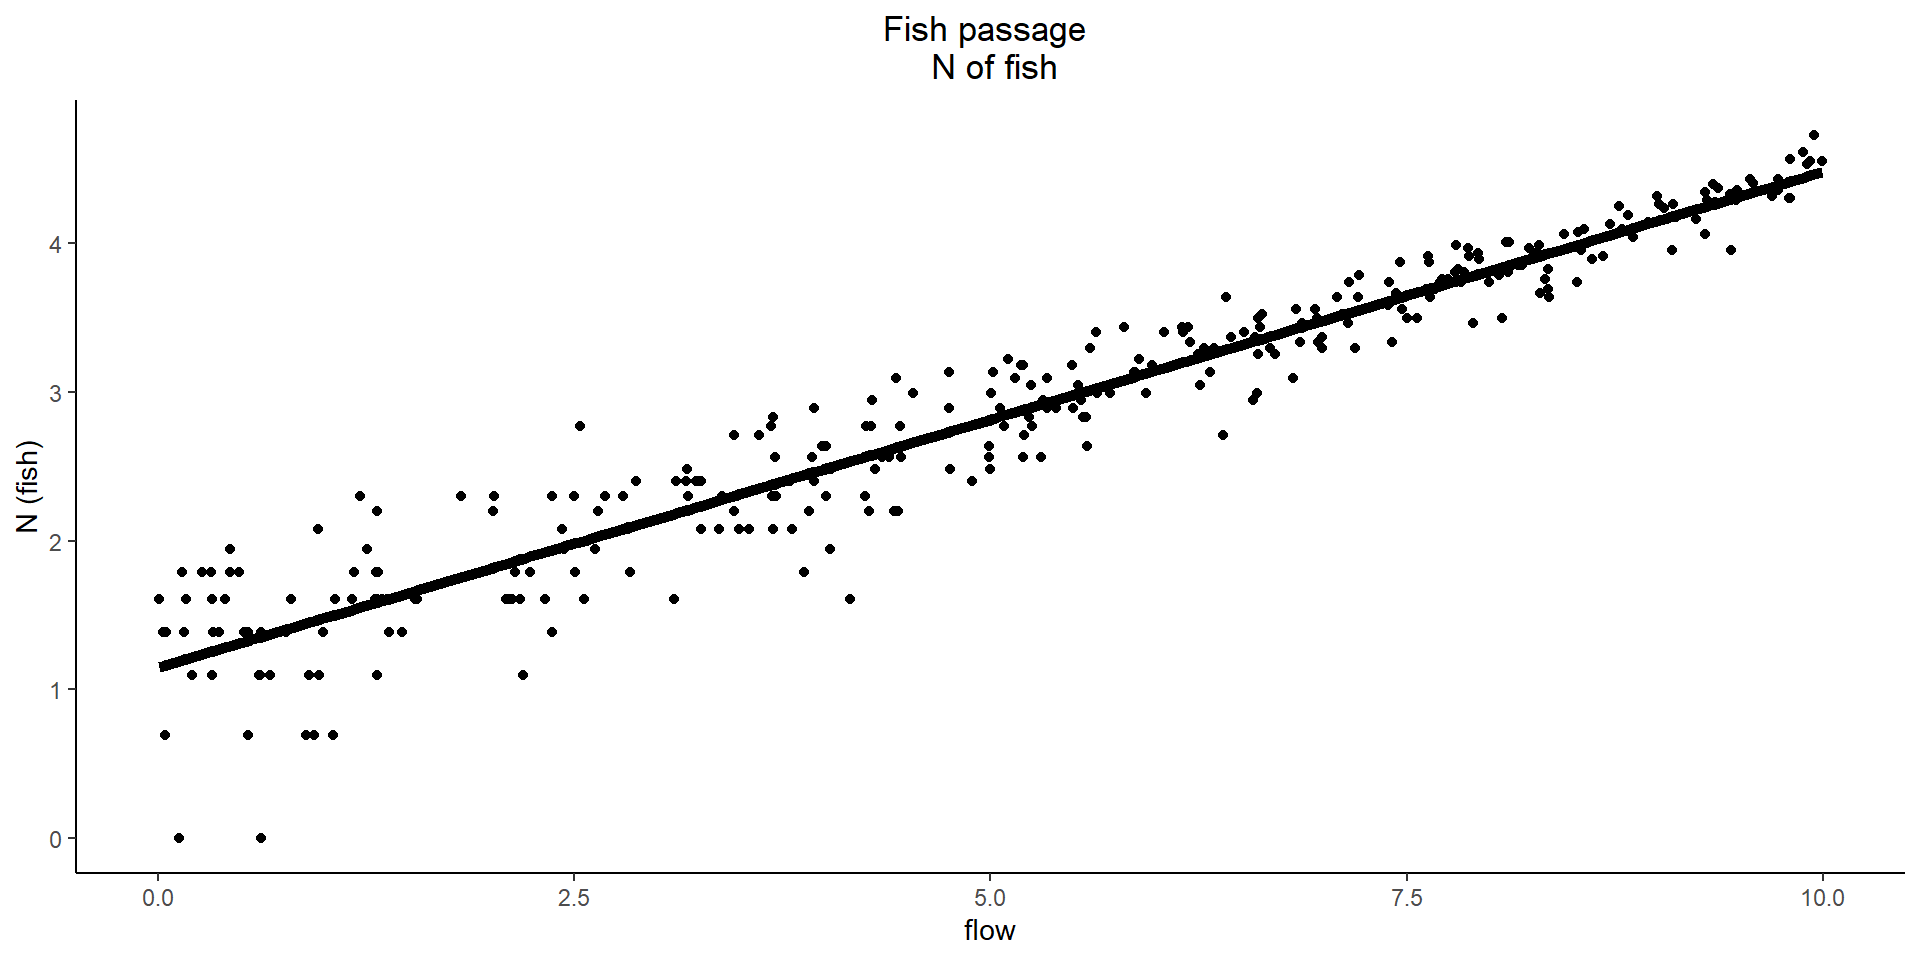
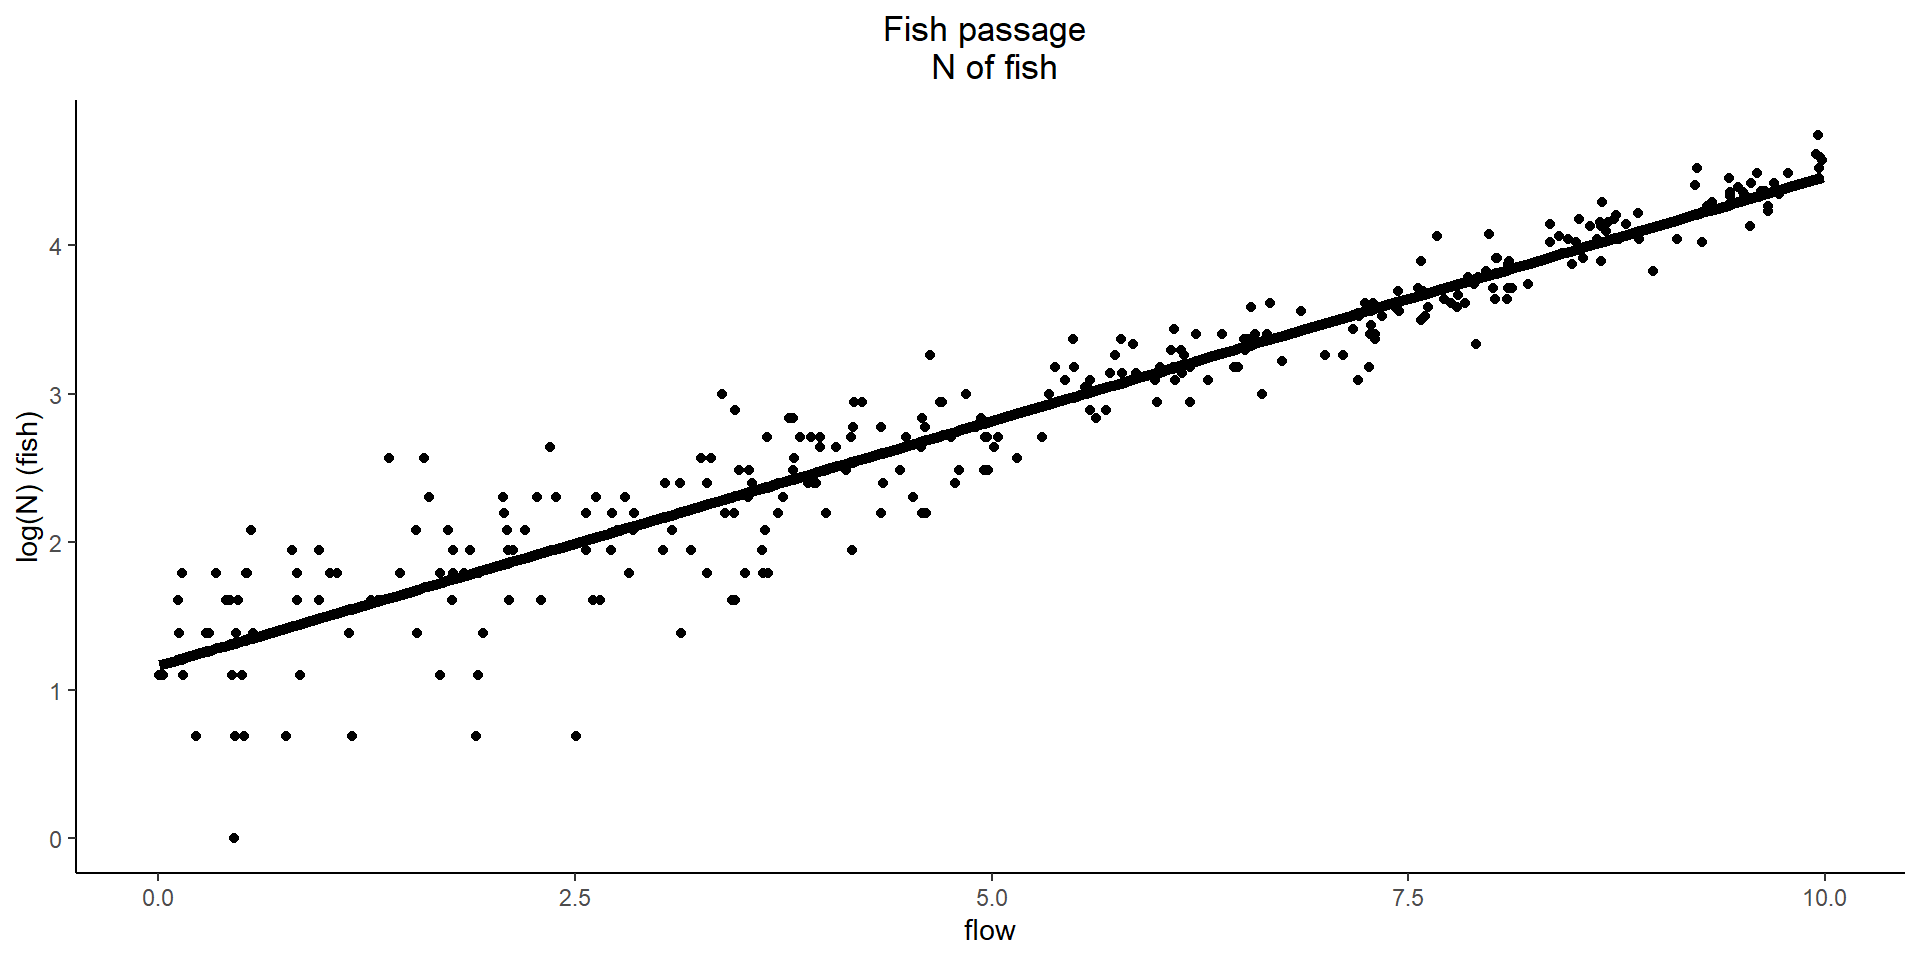
log added

diff --git a/docs/slides/GLM_Poisson.html b/docs/slides/GLM_Poisson.html
@@ -354,16 +354,16 @@ glm(formula = y ~ x, family = poisson, data = dat)
 
 Coefficients:
             Estimate Std. Error z value Pr(&gt;|z|)    
-(Intercept) 1.197615   0.039111   30.62   &lt;2e-16 ***
-x           0.329563   0.005074   64.96   &lt;2e-16 ***
+(Intercept) 1.185886   0.038360   30.91   &lt;2e-16 ***
+x           0.331293   0.004945   66.99   &lt;2e-16 ***
 ---
 Signif. codes:  0 '***' 0.001 '**' 0.01 '*' 0.05 '.' 0.1 ' ' 1
 
 (Dispersion parameter for poisson family taken to be 1)
 
-    Null deviance: 5707.3  on 299  degrees of freedom
-Residual deviance:  277.6  on 298  degrees of freedom
-AIC: 1698.3
+    Null deviance: 5987.92  on 299  degrees of freedom
+Residual deviance:  304.11  on 298  degrees of freedom
+AIC: 1720.2
 
 Number of Fisher Scoring iterations: 4</code></pre>
 </div>
@@ -406,16 +406,16 @@ glm(formula = y ~ x, family = poisson, data = dat)
 
 Coefficients:
             Estimate Std. Error z value Pr(&gt;|z|)    
-(Intercept) 1.197615   0.039111   30.62   &lt;2e-16 ***
-x           0.329563   0.005074   64.96   &lt;2e-16 ***
+(Intercept) 1.185886   0.038360   30.91   &lt;2e-16 ***
+x           0.331293   0.004945   66.99   &lt;2e-16 ***
 ---
 Signif. codes:  0 '***' 0.001 '**' 0.01 '*' 0.05 '.' 0.1 ' ' 1
 
 (Dispersion parameter for poisson family taken to be 1)
 
-    Null deviance: 5707.3  on 299  degrees of freedom
-Residual deviance:  277.6  on 298  degrees of freedom
-AIC: 1698.3
+    Null deviance: 5987.92  on 299  degrees of freedom
+Residual deviance:  304.11  on 298  degrees of freedom
+AIC: 1720.2
 
 Number of Fisher Scoring iterations: 4</code></pre>
 </div>
@@ -453,7 +453,7 @@ Y_i \sim Poisson(\lambda_i)
 <span id="cb10-3"><a href=""></a>  <span class="fu">geom_line</span>(<span class="fu">aes</span>(<span class="at">y=</span>fit),<span class="at">lwd=</span><span class="dv">1</span>)<span class="sc">+</span></span>
 <span id="cb10-4"><a href=""></a>    <span class="fu">geom_ribbon</span>(<span class="at">alpha=</span><span class="fl">0.2</span>)<span class="sc">+</span></span>
 <span id="cb10-5"><a href=""></a>  <span class="fu">xlab</span>(<span class="st">"flow"</span>)<span class="sc">+</span></span>
-<span id="cb10-6"><a href=""></a>  <span class="fu">ylab</span>(<span class="st">"log (N fish)"</span>)<span class="sc">+</span></span>
+<span id="cb10-6"><a href=""></a>  <span class="fu">ylab</span>(<span class="st">"(N fish)"</span>)<span class="sc">+</span></span>
 <span id="cb10-7"><a href=""></a>  <span class="fu">ggtitle</span>(<span class="st">"Fish passage </span><span class="sc">\n</span><span class="st"> N of fish"</span>)<span class="sc">+</span></span>
 <span id="cb10-8"><a href=""></a>  <span class="fu">theme_classic</span>()<span class="sc">+</span></span>
 <span id="cb10-9"><a href=""></a>  <span class="fu">theme</span>(<span class="at">plot.title =</span> <span class="fu">element_text</span>(<span class="at">hjust=</span><span class="fl">0.5</span>))</span></code><button title="Copy to Clipboard" class="code-copy-button"><i class="bi"></i></button></pre></div>
@@ -486,16 +486,16 @@ glm(formula = y ~ x, family = poisson(link = "log"), data = dat)
 
 Coefficients:
             Estimate Std. Error z value Pr(&gt;|z|)    
-(Intercept) 1.197615   0.039111   30.62   &lt;2e-16 ***
-x           0.329563   0.005074   64.96   &lt;2e-16 ***
+(Intercept) 1.185886   0.038360   30.91   &lt;2e-16 ***
+x           0.331293   0.004945   66.99   &lt;2e-16 ***
 ---
 Signif. codes:  0 '***' 0.001 '**' 0.01 '*' 0.05 '.' 0.1 ' ' 1
 
 (Dispersion parameter for poisson family taken to be 1)
 
-    Null deviance: 5707.3  on 299  degrees of freedom
-Residual deviance:  277.6  on 298  degrees of freedom
-AIC: 1698.3
+    Null deviance: 5987.92  on 299  degrees of freedom
+Residual deviance:  304.11  on 298  degrees of freedom
+AIC: 1720.2
 
 Number of Fisher Scoring iterations: 4</code></pre>
 </div>
@@ -608,19 +608,19 @@ Number of Fisher Scoring iterations: 4</code></pre>
 <div class="cell">
 <div class="sourceCode cell-code" id="cb16"><pre class="sourceCode numberSource r number-lines code-with-copy"><code class="sourceCode r"><span id="cb16-1"><a href=""></a><span class="fu">rbinom</span>(<span class="at">n =</span> <span class="dv">10</span>, <span class="at">size =</span> <span class="dv">1</span>, <span class="at">p =</span> <span class="fl">0.1</span>)</span></code><button title="Copy to Clipboard" class="code-copy-button"><i class="bi"></i></button></pre></div>
 <div class="cell-output cell-output-stdout">
-<pre><code> [1] 1 0 0 0 0 0 0 0 0 0</code></pre>
+<pre><code> [1] 0 0 0 1 0 0 1 0 1 0</code></pre>
 </div>
 </div>
 <div class="cell">
 <div class="sourceCode cell-code" id="cb18"><pre class="sourceCode numberSource r number-lines code-with-copy"><code class="sourceCode r"><span id="cb18-1"><a href=""></a><span class="fu">rbinom</span>(<span class="at">n =</span> <span class="dv">10</span>, <span class="at">size =</span> <span class="dv">1</span>, <span class="at">p =</span> <span class="fl">0.5</span>)</span></code><button title="Copy to Clipboard" class="code-copy-button"><i class="bi"></i></button></pre></div>
 <div class="cell-output cell-output-stdout">
-<pre><code> [1] 1 1 1 0 0 1 0 0 1 0</code></pre>
+<pre><code> [1] 1 0 1 0 0 0 0 1 1 0</code></pre>
 </div>
 </div>
 <div class="cell">
 <div class="sourceCode cell-code" id="cb20"><pre class="sourceCode numberSource r number-lines code-with-copy"><code class="sourceCode r"><span id="cb20-1"><a href=""></a><span class="fu">rbinom</span>(<span class="at">n =</span> <span class="dv">10</span>, <span class="at">size =</span> <span class="dv">1</span>, <span class="at">p =</span> <span class="fl">0.9</span>)</span></code><button title="Copy to Clipboard" class="code-copy-button"><i class="bi"></i></button></pre></div>
 <div class="cell-output cell-output-stdout">
-<pre><code> [1] 1 0 1 1 1 1 1 1 0 1</code></pre>
+<pre><code> [1] 1 1 1 1 1 1 0 0 1 1</code></pre>
 </div>
 </div>
 </section>
@@ -641,16 +641,16 @@ glm(formula = y ~ x, family = poisson(link = "log"), data = dat)
 
 Coefficients:
             Estimate Std. Error z value Pr(&gt;|z|)    
-(Intercept) 1.197615   0.039111   30.62   &lt;2e-16 ***
-x           0.329563   0.005074   64.96   &lt;2e-16 ***
+(Intercept) 1.185886   0.038360   30.91   &lt;2e-16 ***
+x           0.331293   0.004945   66.99   &lt;2e-16 ***
 ---
 Signif. codes:  0 '***' 0.001 '**' 0.01 '*' 0.05 '.' 0.1 ' ' 1
 
 (Dispersion parameter for poisson family taken to be 1)
 
-    Null deviance: 5707.3  on 299  degrees of freedom
-Residual deviance:  277.6  on 298  degrees of freedom
-AIC: 1698.3
+    Null deviance: 5987.92  on 299  degrees of freedom
+Residual deviance:  304.11  on 298  degrees of freedom
+AIC: 1720.2
 
 Number of Fisher Scoring iterations: 4</code></pre>
 </div>

diff --git a/slides/GLM_Poisson.html b/slides/GLM_Poisson.html
@@ -354,16 +354,16 @@ glm(formula = y ~ x, family = poisson, data = dat)
 
 Coefficients:
             Estimate Std. Error z value Pr(&gt;|z|)    
-(Intercept) 1.197615   0.039111   30.62   &lt;2e-16 ***
-x           0.329563   0.005074   64.96   &lt;2e-16 ***
+(Intercept) 1.185886   0.038360   30.91   &lt;2e-16 ***
+x           0.331293   0.004945   66.99   &lt;2e-16 ***
 ---
 Signif. codes:  0 '***' 0.001 '**' 0.01 '*' 0.05 '.' 0.1 ' ' 1
 
 (Dispersion parameter for poisson family taken to be 1)
 
-    Null deviance: 5707.3  on 299  degrees of freedom
-Residual deviance:  277.6  on 298  degrees of freedom
-AIC: 1698.3
+    Null deviance: 5987.92  on 299  degrees of freedom
+Residual deviance:  304.11  on 298  degrees of freedom
+AIC: 1720.2
 
 Number of Fisher Scoring iterations: 4</code></pre>
 </div>
@@ -406,16 +406,16 @@ glm(formula = y ~ x, family = poisson, data = dat)
 
 Coefficients:
             Estimate Std. Error z value Pr(&gt;|z|)    
-(Intercept) 1.197615   0.039111   30.62   &lt;2e-16 ***
-x           0.329563   0.005074   64.96   &lt;2e-16 ***
+(Intercept) 1.185886   0.038360   30.91   &lt;2e-16 ***
+x           0.331293   0.004945   66.99   &lt;2e-16 ***
 ---
 Signif. codes:  0 '***' 0.001 '**' 0.01 '*' 0.05 '.' 0.1 ' ' 1
 
 (Dispersion parameter for poisson family taken to be 1)
 
-    Null deviance: 5707.3  on 299  degrees of freedom
-Residual deviance:  277.6  on 298  degrees of freedom
-AIC: 1698.3
+    Null deviance: 5987.92  on 299  degrees of freedom
+Residual deviance:  304.11  on 298  degrees of freedom
+AIC: 1720.2
 
 Number of Fisher Scoring iterations: 4</code></pre>
 </div>
@@ -453,7 +453,7 @@ Y_i \sim Poisson(\lambda_i)
 <span id="cb10-3"><a href=""></a>  <span class="fu">geom_line</span>(<span class="fu">aes</span>(<span class="at">y=</span>fit),<span class="at">lwd=</span><span class="dv">1</span>)<span class="sc">+</span></span>
 <span id="cb10-4"><a href=""></a>    <span class="fu">geom_ribbon</span>(<span class="at">alpha=</span><span class="fl">0.2</span>)<span class="sc">+</span></span>
 <span id="cb10-5"><a href=""></a>  <span class="fu">xlab</span>(<span class="st">"flow"</span>)<span class="sc">+</span></span>
-<span id="cb10-6"><a href=""></a>  <span class="fu">ylab</span>(<span class="st">"log (N fish)"</span>)<span class="sc">+</span></span>
+<span id="cb10-6"><a href=""></a>  <span class="fu">ylab</span>(<span class="st">"(N fish)"</span>)<span class="sc">+</span></span>
 <span id="cb10-7"><a href=""></a>  <span class="fu">ggtitle</span>(<span class="st">"Fish passage </span><span class="sc">\n</span><span class="st"> N of fish"</span>)<span class="sc">+</span></span>
 <span id="cb10-8"><a href=""></a>  <span class="fu">theme_classic</span>()<span class="sc">+</span></span>
 <span id="cb10-9"><a href=""></a>  <span class="fu">theme</span>(<span class="at">plot.title =</span> <span class="fu">element_text</span>(<span class="at">hjust=</span><span class="fl">0.5</span>))</span></code><button title="Copy to Clipboard" class="code-copy-button"><i class="bi"></i></button></pre></div>
@@ -486,16 +486,16 @@ glm(formula = y ~ x, family = poisson(link = "log"), data = dat)
 
 Coefficients:
             Estimate Std. Error z value Pr(&gt;|z|)    
-(Intercept) 1.197615   0.039111   30.62   &lt;2e-16 ***
-x           0.329563   0.005074   64.96   &lt;2e-16 ***
+(Intercept) 1.185886   0.038360   30.91   &lt;2e-16 ***
+x           0.331293   0.004945   66.99   &lt;2e-16 ***
 ---
 Signif. codes:  0 '***' 0.001 '**' 0.01 '*' 0.05 '.' 0.1 ' ' 1
 
 (Dispersion parameter for poisson family taken to be 1)
 
-    Null deviance: 5707.3  on 299  degrees of freedom
-Residual deviance:  277.6  on 298  degrees of freedom
-AIC: 1698.3
+    Null deviance: 5987.92  on 299  degrees of freedom
+Residual deviance:  304.11  on 298  degrees of freedom
+AIC: 1720.2
 
 Number of Fisher Scoring iterations: 4</code></pre>
 </div>
@@ -608,19 +608,19 @@ Number of Fisher Scoring iterations: 4</code></pre>
 <div class="cell">
 <div class="sourceCode cell-code" id="cb16"><pre class="sourceCode numberSource r number-lines code-with-copy"><code class="sourceCode r"><span id="cb16-1"><a href=""></a><span class="fu">rbinom</span>(<span class="at">n =</span> <span class="dv">10</span>, <span class="at">size =</span> <span class="dv">1</span>, <span class="at">p =</span> <span class="fl">0.1</span>)</span></code><button title="Copy to Clipboard" class="code-copy-button"><i class="bi"></i></button></pre></div>
 <div class="cell-output cell-output-stdout">
-<pre><code> [1] 1 0 0 0 0 0 0 0 0 0</code></pre>
+<pre><code> [1] 0 0 0 1 0 0 1 0 1 0</code></pre>
 </div>
 </div>
 <div class="cell">
 <div class="sourceCode cell-code" id="cb18"><pre class="sourceCode numberSource r number-lines code-with-copy"><code class="sourceCode r"><span id="cb18-1"><a href=""></a><span class="fu">rbinom</span>(<span class="at">n =</span> <span class="dv">10</span>, <span class="at">size =</span> <span class="dv">1</span>, <span class="at">p =</span> <span class="fl">0.5</span>)</span></code><button title="Copy to Clipboard" class="code-copy-button"><i class="bi"></i></button></pre></div>
 <div class="cell-output cell-output-stdout">
-<pre><code> [1] 1 1 1 0 0 1 0 0 1 0</code></pre>
+<pre><code> [1] 1 0 1 0 0 0 0 1 1 0</code></pre>
 </div>
 </div>
 <div class="cell">
 <div class="sourceCode cell-code" id="cb20"><pre class="sourceCode numberSource r number-lines code-with-copy"><code class="sourceCode r"><span id="cb20-1"><a href=""></a><span class="fu">rbinom</span>(<span class="at">n =</span> <span class="dv">10</span>, <span class="at">size =</span> <span class="dv">1</span>, <span class="at">p =</span> <span class="fl">0.9</span>)</span></code><button title="Copy to Clipboard" class="code-copy-button"><i class="bi"></i></button></pre></div>
 <div class="cell-output cell-output-stdout">
-<pre><code> [1] 1 0 1 1 1 1 1 1 0 1</code></pre>
+<pre><code> [1] 1 1 1 1 1 1 0 0 1 1</code></pre>
 </div>
 </div>
 </section>
@@ -641,16 +641,16 @@ glm(formula = y ~ x, family = poisson(link = "log"), data = dat)
 
 Coefficients:
             Estimate Std. Error z value Pr(&gt;|z|)    
-(Intercept) 1.197615   0.039111   30.62   &lt;2e-16 ***
-x           0.329563   0.005074   64.96   &lt;2e-16 ***
+(Intercept) 1.185886   0.038360   30.91   &lt;2e-16 ***
+x           0.331293   0.004945   66.99   &lt;2e-16 ***
 ---
 Signif. codes:  0 '***' 0.001 '**' 0.01 '*' 0.05 '.' 0.1 ' ' 1
 
 (Dispersion parameter for poisson family taken to be 1)
 
-    Null deviance: 5707.3  on 299  degrees of freedom
-Residual deviance:  277.6  on 298  degrees of freedom
-AIC: 1698.3
+    Null deviance: 5987.92  on 299  degrees of freedom
+Residual deviance:  304.11  on 298  degrees of freedom
+AIC: 1720.2
 
 Number of Fisher Scoring iterations: 4</code></pre>
 </div>
